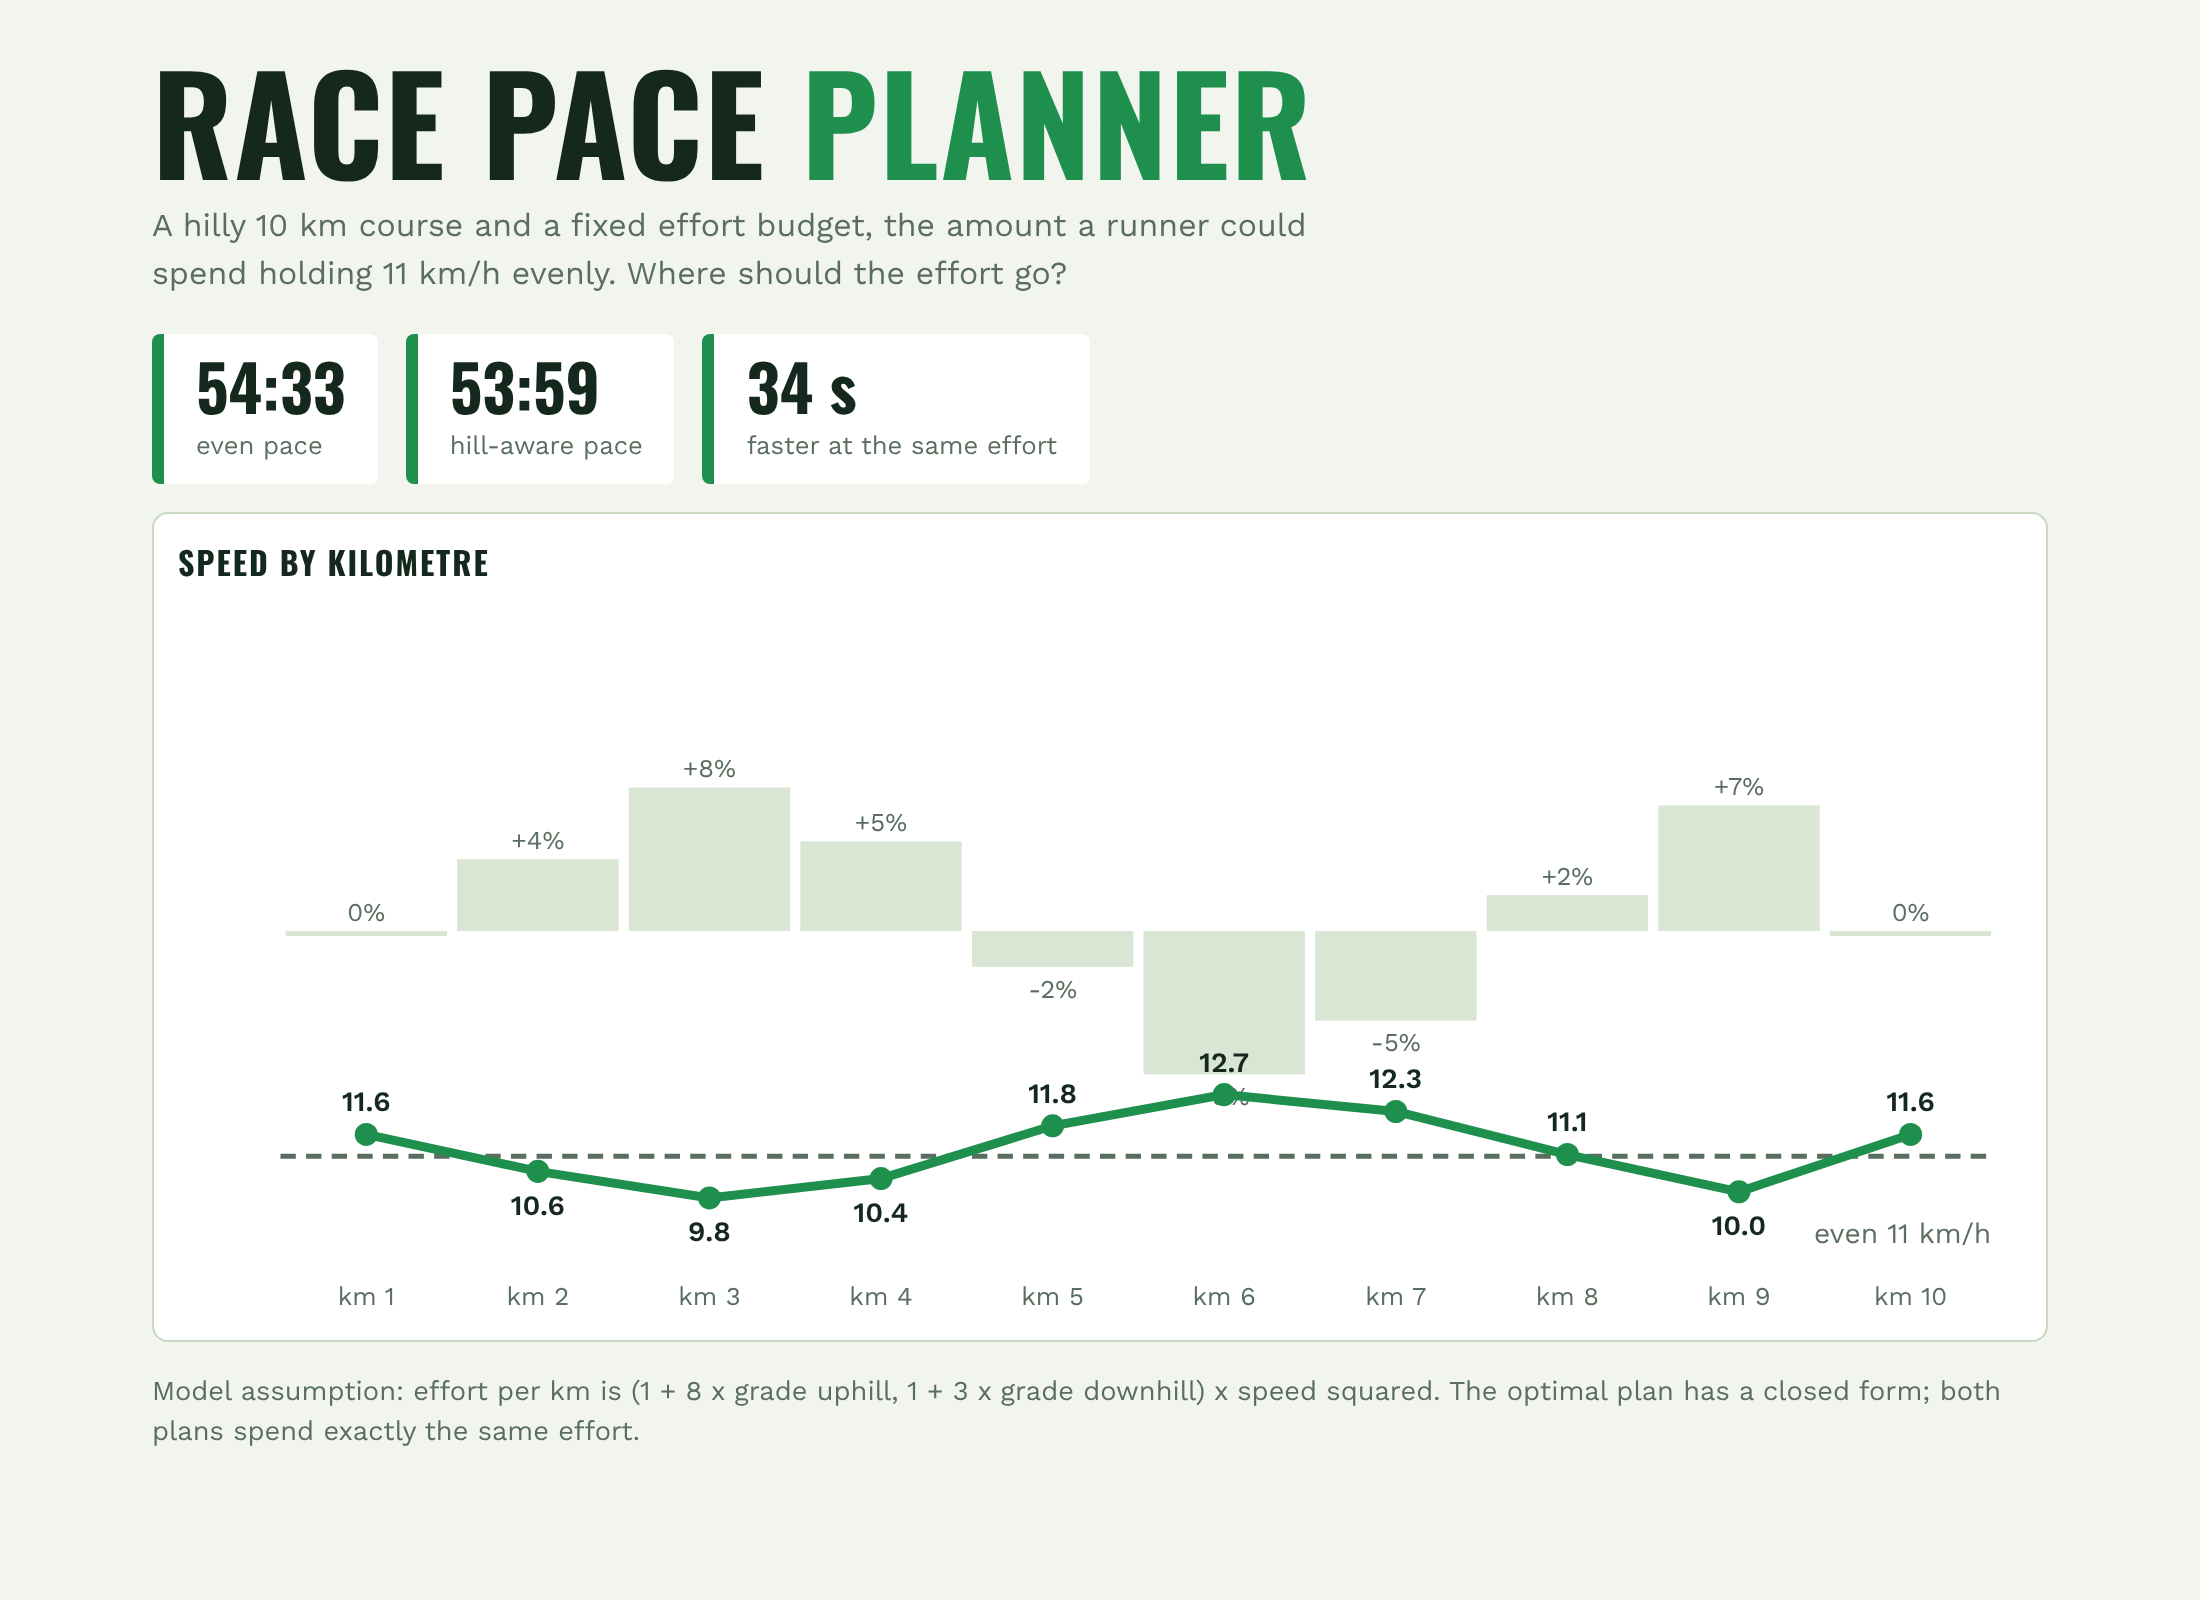
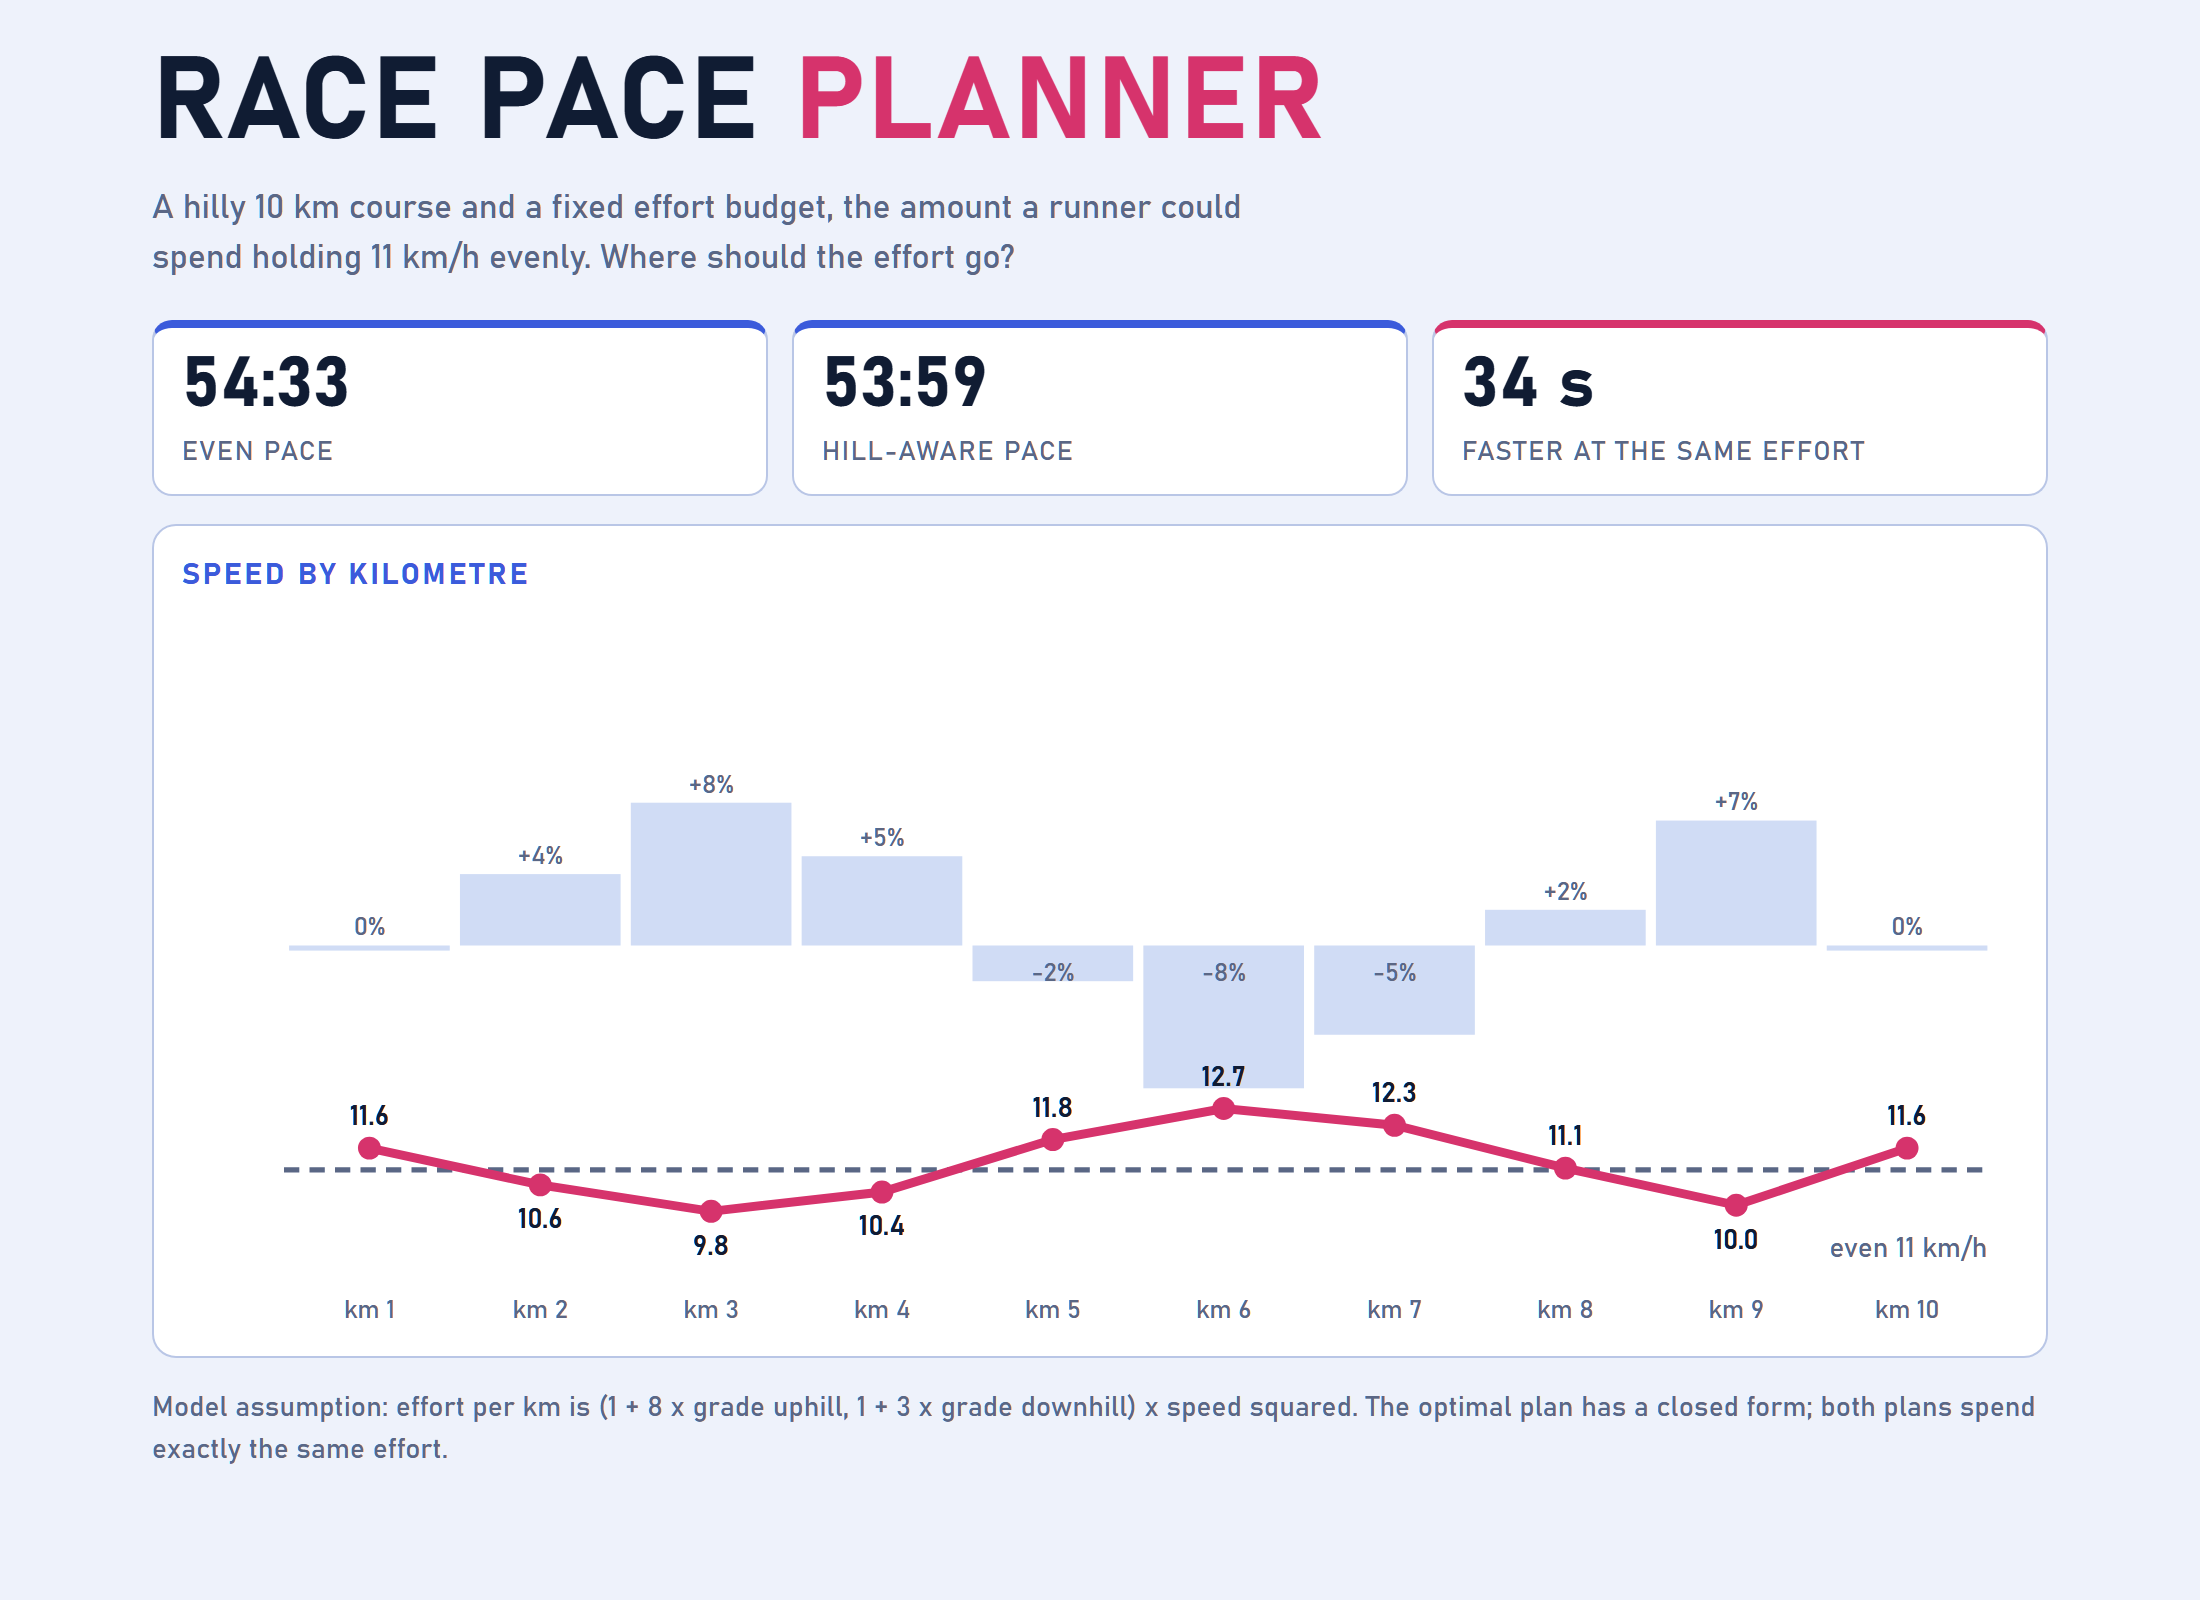
Redesign frontend: race-pace-planner

diff --git a/static/index.html b/static/index.html
@@ -1,15 +1,24 @@
 <!doctype html><html lang="en"><head><meta charset="utf-8"><meta name="viewport" content="width=device-width,initial-scale=1"><title>Race Pace Planner</title>
-<link href="https://fonts.googleapis.com/css2?family=Oswald:wght@500;700&family=Work+Sans:wght@400;600&display=swap" rel="stylesheet">
 <style>
-:root{--bg:#f1f5ee;--card:#fff;--ink:#14281d;--mute:#5a6e60;--grn:#1f8f4e;--hill:#d9e6d3;--line:#c8d6c2;--oran:#f08a24}
-@media(prefers-color-scheme:dark){:root{--bg:#0f1a14;--card:#16251c;--ink:#e9f4ec;--mute:#9db5a4;--grn:#46c47a;--hill:#24382b;--line:#2f4738;--oran:#ffa64d}}
-*{box-sizing:border-box}body{margin:0;background:var(--bg);color:var(--ink);font:16px/1.5 "Work Sans",sans-serif}
-main{max-width:980px;margin:auto;padding:26px 16px 56px}
-h1{font:700 clamp(2.4rem,9vw,4.2rem)/1 Oswald,sans-serif;text-transform:uppercase;letter-spacing:.01em;margin:0}h1 span{color:var(--grn)}
-.sub{color:var(--mute);max-width:62ch;margin:8px 0 18px}
-.kpi{display:flex;gap:14px;flex-wrap:wrap;margin-bottom:14px}.kpi div{background:var(--card);border-left:6px solid var(--grn);padding:8px 16px;border-radius:4px}.kpi b{display:block;font:700 2rem/1.1 Oswald}.kpi span{font-size:.8rem;color:var(--mute)}
-.card{background:var(--card);border-radius:8px;padding:12px;margin-bottom:12px;border:1px solid var(--line)}.card h2{font:700 1rem Oswald;text-transform:uppercase;margin:0 0 6px;letter-spacing:.06em}
-svg{width:100%;height:auto;display:block}.note{color:var(--mute);font-size:.85rem}
+:root{--bg:#eef2fb;--card:#ffffff;--ink:#101c33;--mute:#5a6785;--accent:#d6336c;--blue:#3b5bdb;--hill:#d0dcf5;--line:#b9c6e6;color-scheme:light}
+@media(prefers-color-scheme:dark){:root:not([data-theme="light"]){--bg:#0a1624;--card:#112336;--ink:#e6f0fb;--mute:#93a7c2;--accent:#ff6f9c;--blue:#7aa2ff;--hill:#1d3650;--line:#244363;color-scheme:dark}}
+:root[data-theme="dark"]{--bg:#0a1624;--card:#112336;--ink:#e6f0fb;--mute:#93a7c2;--accent:#ff6f9c;--blue:#7aa2ff;--hill:#1d3650;--line:#244363;color-scheme:dark}
+*{box-sizing:border-box}
+html,body{background:var(--bg)}
+body{margin:0;color:var(--ink);font:16px/1.5 "Bahnschrift","DIN Alternate","Arial Narrow",Arial,sans-serif}
+main{max-width:980px;margin:0 auto;padding:24px 16px 56px}
+h1{margin:0;font-size:clamp(2.1rem,8vw,3.6rem);line-height:1;font-weight:700;text-transform:uppercase;letter-spacing:.02em}
+h1 span{color:var(--accent)}
+.sub{color:var(--mute);max-width:62ch;margin:10px 0 18px;font-size:1.05rem}
+.kpi{display:grid;grid-template-columns:repeat(auto-fit,minmax(170px,1fr));gap:12px;margin-bottom:14px}
+.kpi div{background:var(--card);border:1px solid var(--line);border-top:4px solid var(--blue);padding:10px 14px;border-radius:10px}
+.kpi div:last-child{border-top-color:var(--accent)}
+.kpi b{display:block;font-size:2.2rem;line-height:1.1;font-weight:700}
+.kpi span{font-size:.85rem;color:var(--mute);text-transform:uppercase;letter-spacing:.05em}
+.card{background:var(--card);border:1px solid var(--line);border-radius:12px;padding:14px;margin-bottom:12px}
+.card h2{font-size:.95rem;font-weight:700;text-transform:uppercase;margin:0 0 8px;letter-spacing:.08em;color:var(--blue)}
+svg{width:100%;height:auto;display:block}
+.note{color:var(--mute);font-size:.88rem}
 </style></head><body><main>
 <h1>Race Pace <span>Planner</span></h1><p class="sub">A hilly 10 km course and a fixed effort budget, the amount a runner could spend holding 11 km/h evenly. Where should the effort go?</p>
 <div class="kpi" id="k" aria-live="polite"></div>
@@ -21,9 +30,9 @@ const $=i=>document.getElementById(i);
 const fm=m=>Math.floor(m)+":"+String(Math.round((m%1)*60)).padStart(2,"0");
 $("k").innerHTML=`<div><b>${fm(r.even.minutes)}</b><span>even pace</span></div><div><b>${fm(r.optimal.minutes)}</b><span>hill-aware pace</span></div><div><b>${r.seconds_saved} s</b><span>faster at the same effort</span></div>`;
 const n=r.segments.length,W=720,m=40,bw=(W-m-10)/n,Yh=g=>130-g*7,Ys=v=>260-(v-8)*14;
-let s="";r.segments.forEach((g,i)=>{const x=m+i*bw;s+=`<rect x="${x+2}" y="${Math.min(Yh(g.grade),Yh(0))}" width="${bw-4}" height="${Math.abs(Yh(g.grade)-Yh(0))||2}" fill="var(--hill)"/><text x="${x+bw/2}" y="${g.grade>=0?Yh(g.grade)-4:Yh(g.grade)+12}" text-anchor="middle" font-size="10" fill="var(--mute)">${g.grade>0?"+":""}${g.grade}%</text>`});
-s+=`<line x1="${m}" y1="${Ys(r.even.speeds_kmh[0])}" x2="${W-10}" y2="${Ys(r.even.speeds_kmh[0])}" stroke="var(--mute)" stroke-width="2" stroke-dasharray="6 4"/><text x="${W-12}" y="${Ys(r.even.speeds_kmh[0])+34}" text-anchor="end" font-size="11" fill="var(--mute)">even ${r.even.speeds_kmh[0]} km/h</text>`;
-s+=`<polyline fill="none" stroke="var(--grn)" stroke-width="3.5" points="${r.optimal.speeds_kmh.map((v,i)=>(m+i*bw+bw/2)+","+Ys(v)).join(" ")}"/>`+r.optimal.speeds_kmh.map((v,i)=>`<circle cx="${m+i*bw+bw/2}" cy="${Ys(v)}" r="4.5" fill="var(--grn)"/><text x="${m+i*bw+bw/2}" y="${Ys(v)+(v>r.even.speeds_kmh[0]?-9:17)}" text-anchor="middle" font-size="11" font-weight="600" fill="var(--ink)">${v.toFixed(1)}</text>`).join("");
-s+=r.segments.map((g,i)=>`<text x="${m+i*bw+bw/2}" y="276" text-anchor="middle" font-size="10" fill="var(--mute)">km ${i+1}</text>`).join("");
+let s="";r.segments.forEach((g,i)=>{const x=m+i*bw;s+=`<rect x="${x+2}" y="${Math.min(Yh(g.grade),Yh(0))}" width="${bw-4}" height="${Math.abs(Yh(g.grade)-Yh(0))||2}" style="fill:var(--hill)"/><text x="${x+bw/2}" y="${g.grade>=0?Yh(g.grade)-4:Yh(0)+14}" text-anchor="middle" font-size="10" style="fill:var(--mute)">${g.grade>0?"+":""}${g.grade}%</text>`});
+s+=`<line x1="${m}" y1="${Ys(r.even.speeds_kmh[0])}" x2="${W-10}" y2="${Ys(r.even.speeds_kmh[0])}" style="stroke:var(--mute)" stroke-width="2" stroke-dasharray="6 4"/><text x="${W-12}" y="${Ys(r.even.speeds_kmh[0])+34}" text-anchor="end" font-size="11" style="fill:var(--mute)">even ${r.even.speeds_kmh[0]} km/h</text>`;
+s+=`<polyline fill="none" style="stroke:var(--accent)" stroke-width="3.5" points="${r.optimal.speeds_kmh.map((v,i)=>(m+i*bw+bw/2)+","+Ys(v)).join(" ")}"/>`+r.optimal.speeds_kmh.map((v,i)=>`<circle cx="${m+i*bw+bw/2}" cy="${Ys(v)}" r="4.5" style="fill:var(--accent)"/><text x="${m+i*bw+bw/2}" y="${Ys(v)+(v>r.even.speeds_kmh[0]?-9:17)}" text-anchor="middle" font-size="11" font-weight="600" style="fill:var(--ink)">${v.toFixed(1)}</text>`).join("");
+s+=r.segments.map((g,i)=>`<text x="${m+i*bw+bw/2}" y="276" text-anchor="middle" font-size="10" style="fill:var(--mute)">km ${i+1}</text>`).join("");
 $("c").innerHTML=s})();
 </script></body></html>
